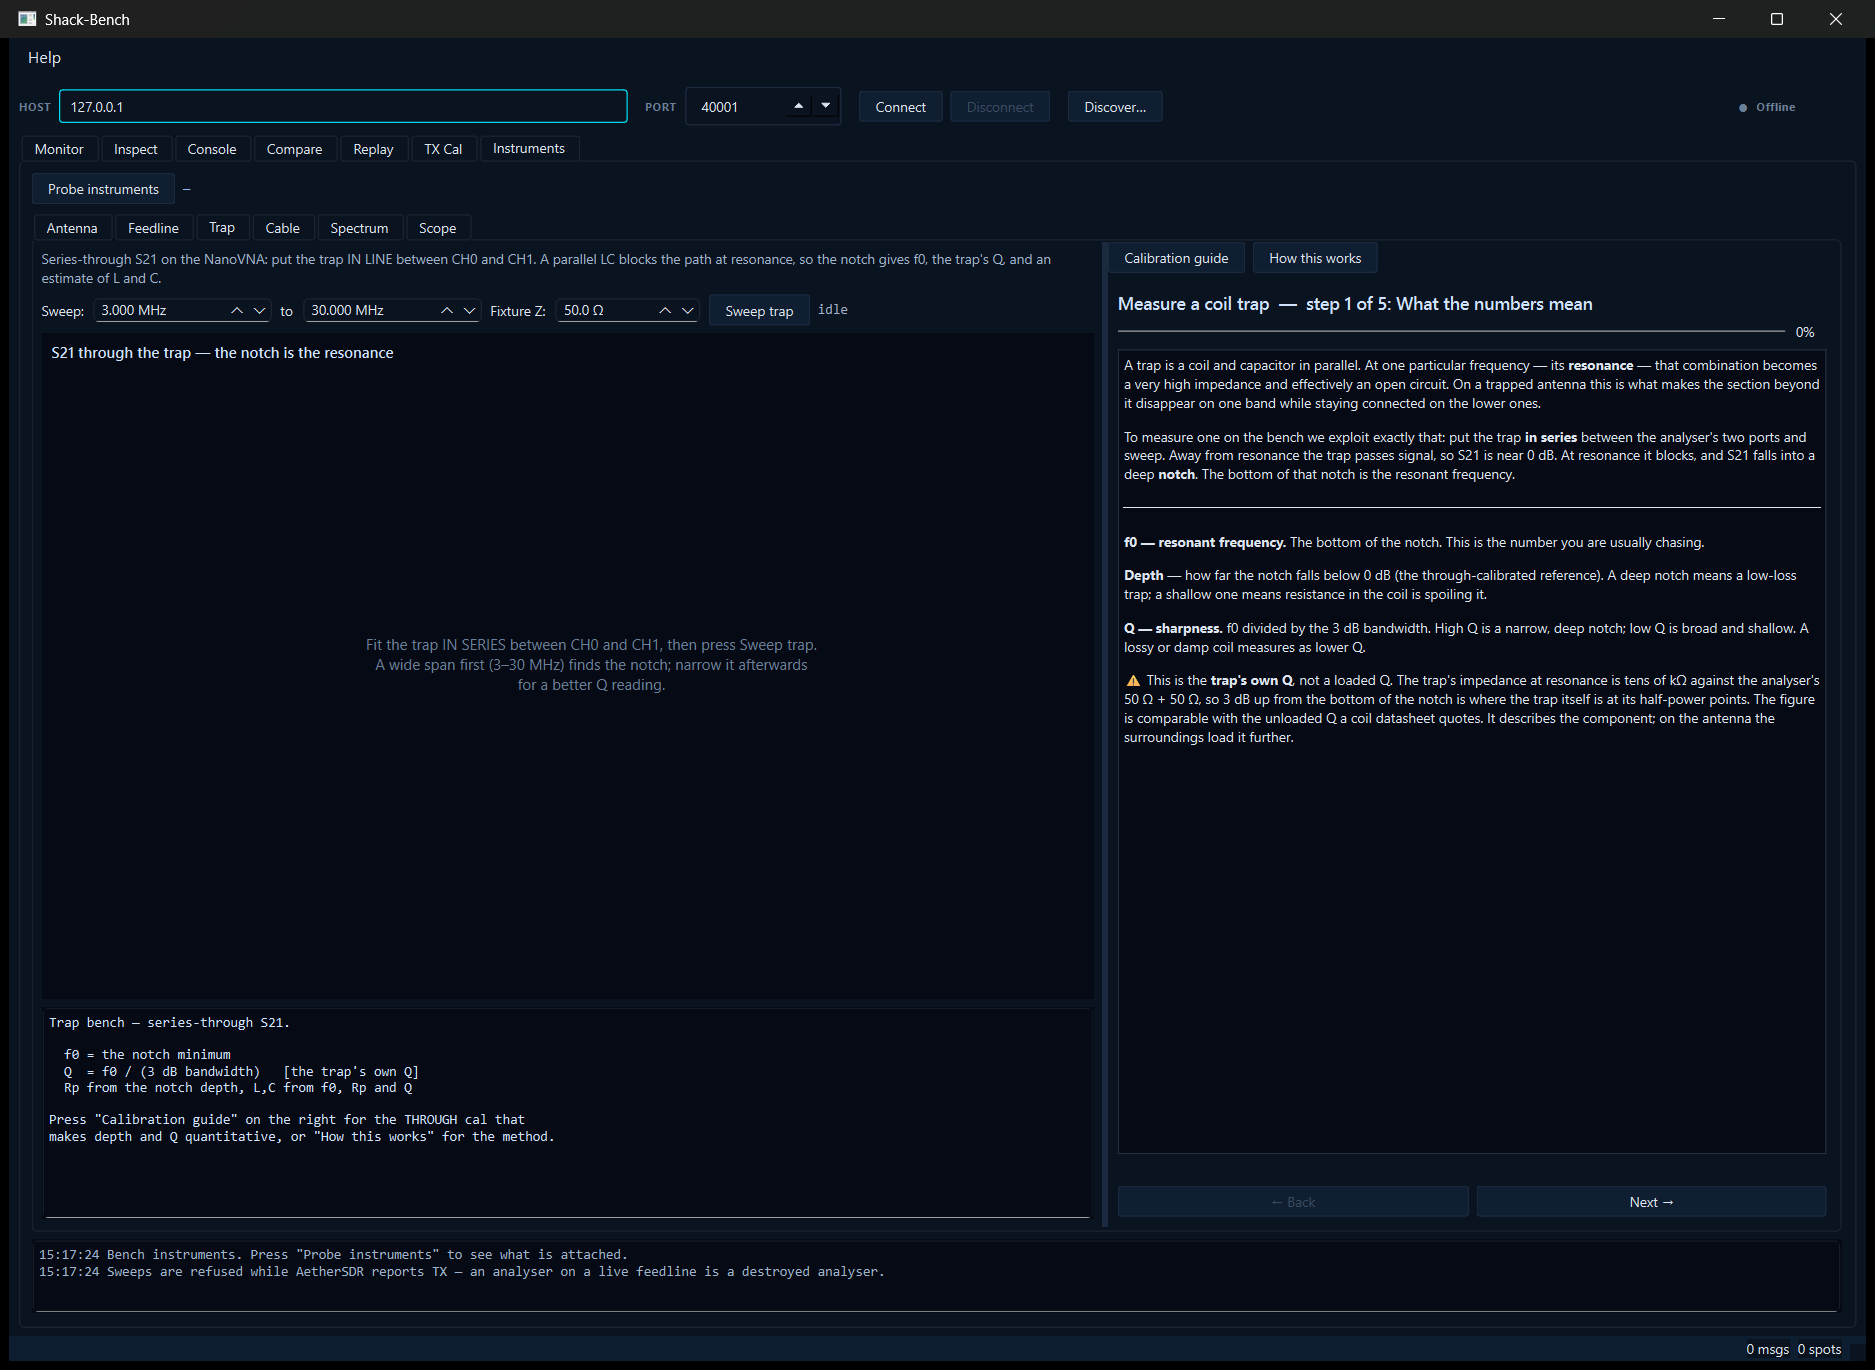
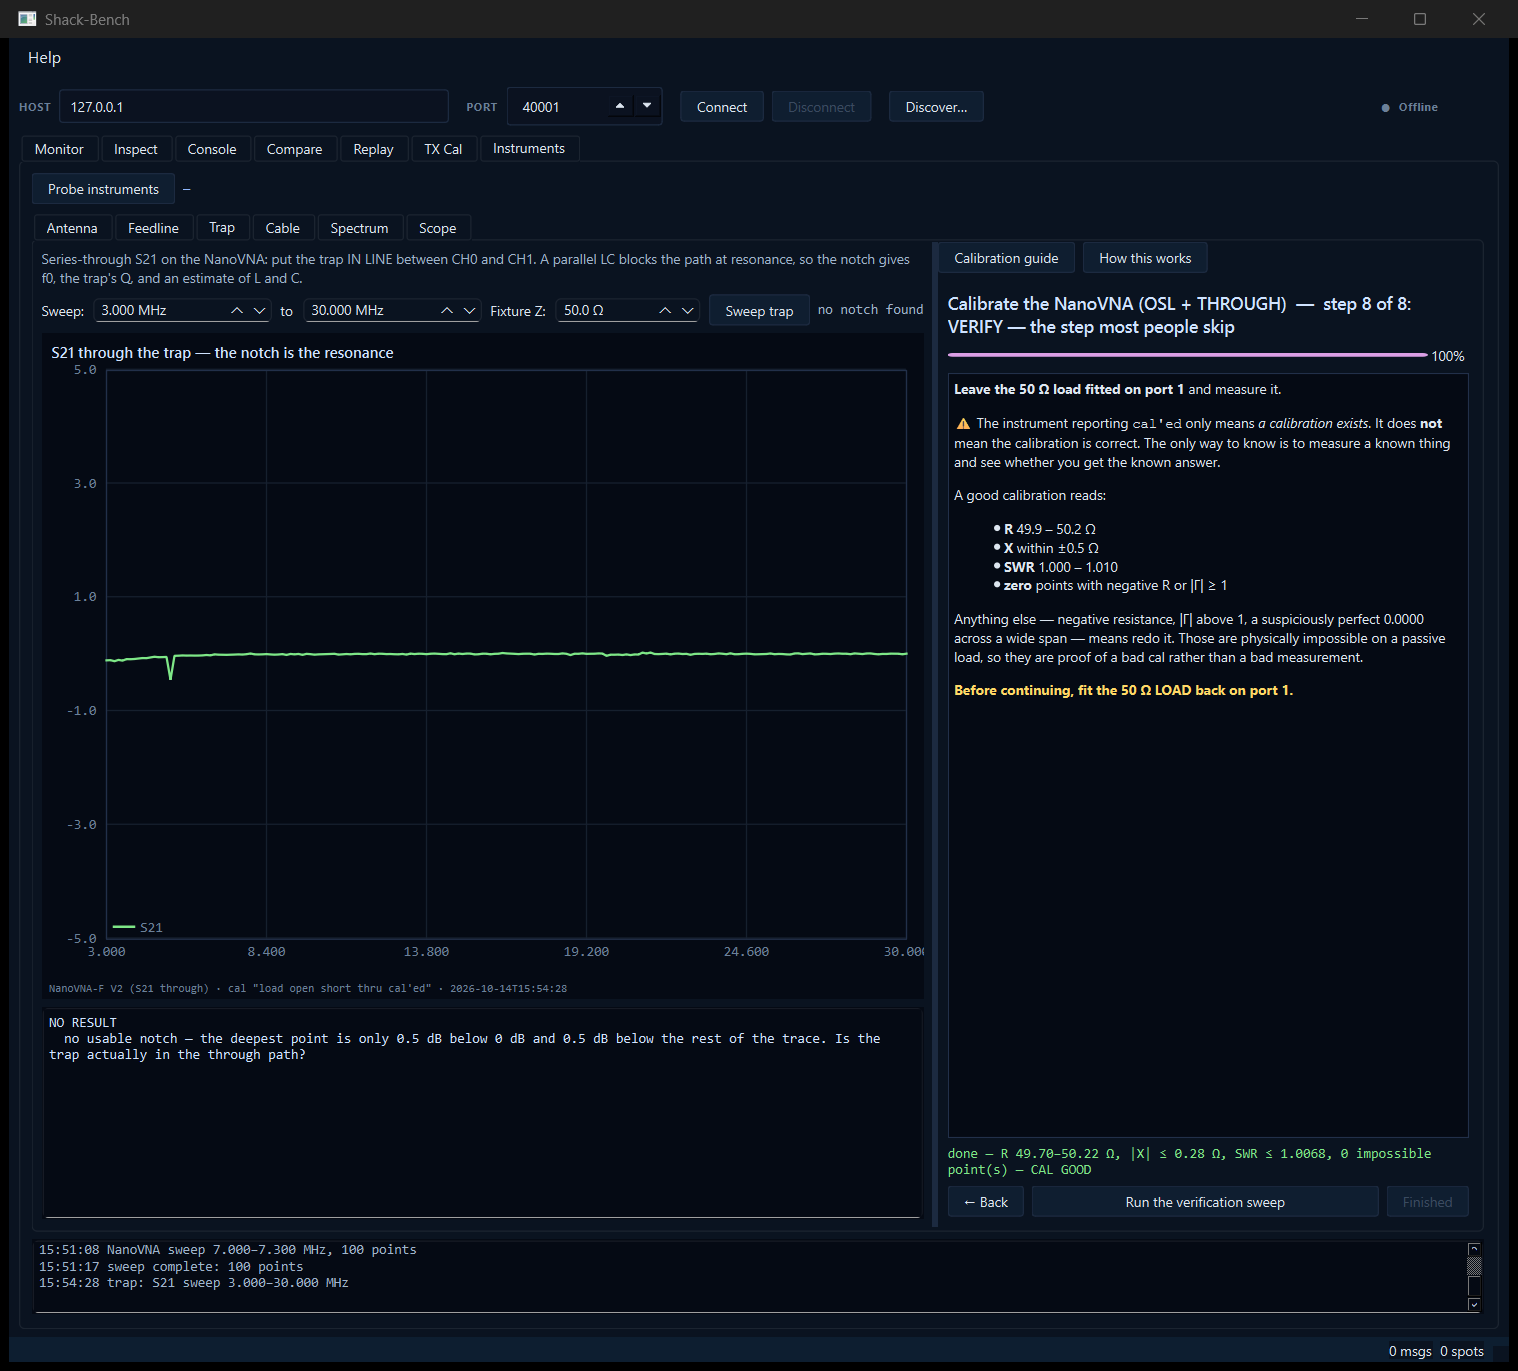
docs(readme): live Trap screenshot - THRU refused as 'no usable notch'
Bench run 2026-10-14 on v0.5.1: S21 through the THRU cable alone, 3-30 MHz,
flat ~0 dB. The #15 guard refuses it ('no usable notch ... Is the trap
actually in the through path?') instead of inventing f0/Q/L/C. Guide panel
shows the cal guide's final verify: R 49.70-50.22, |X| <= 0.28, SWR <=
1.0068, CAL GOOD.

diff --git a/README.md b/README.md
@@ -253,7 +253,7 @@ Side panel guides:
 - **How this works**: f0, depth and Q, why the trap goes in series, and
   sweeping wide then narrow.
 
-![Instruments → Trap — sweep controls and the step-by-step guide explaining f0, depth and Q](docs/instruments-trap.png)
+![Instruments → Trap — a live S21 sweep through just the THRU cable: flat 0 dB, correctly refused as "no usable notch", with the calibration guide's final verify (CAL GOOD) on the right](docs/instruments-trap.png)
 
 #### Cable
 
